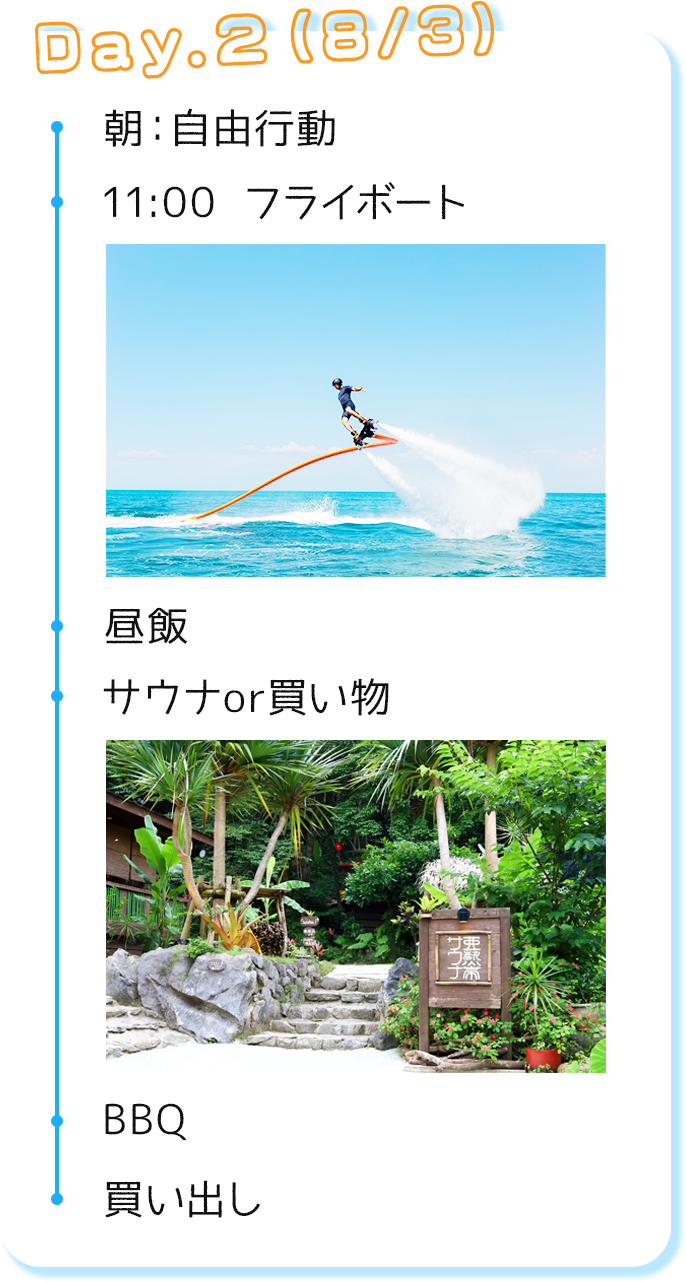
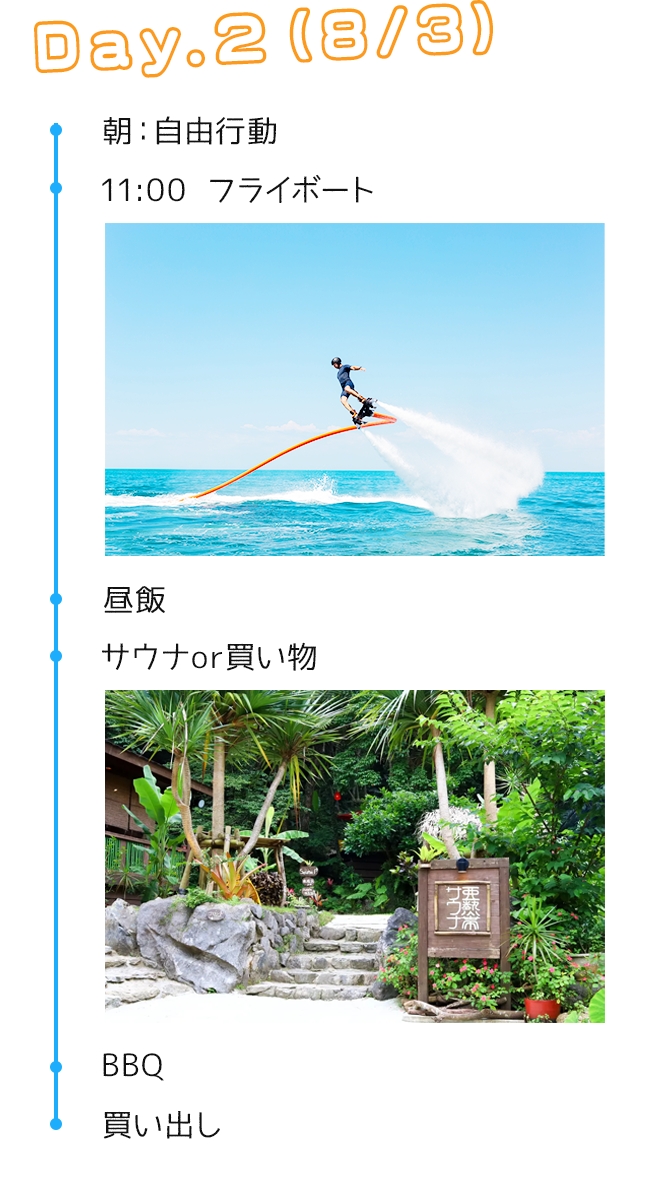
スケジュール画像変更＆fv修正

diff --git a/index.html b/index.html
@@ -67,7 +67,8 @@
         </div>  
 
         <div class="fv" id="top">
-            <div class="fv_img"><img src="./img/FV.png" alt=""></div>
+            <p class="fv_img"><img src="./img/fv-bg.png" alt=""></p>
+            <p class="fv_txt"><img src="./img/fv-txt.png" alt=""></p>
         </div>
 
         <div class="article">
@@ -146,10 +147,6 @@
                         寝室1(洋室)：ダブルベッド×3<br>
                         寝室2(和室)：ダブルベッド×2・布団×6<br>
                         寝室3(洋室)：ダブルベッド×2・ベビーベッド<br>
-                        ーーーーーーーーーーーーーーーーーーー<br>
-                        【❌含まれないもの❌】<br>
-                        必需品<br>
-                        シャンプーシャンプー<br>
                         ーーーーーーーーーーーーーーーーーーー<br>
                         <a target=”_blank” href="https://x.gd/V5GF7">https://x.gd/V5GF7</a>
                         </div>

diff --git a/css/style.scss b/css/style.scss
@@ -5,15 +5,10 @@ html {
   font-size: 16px; /* 基準サイズを16pxに設定 */
 }
 
-// // 画像スライド右ボタン非表示
-// .slick-next {
-//     display: none !important;
-// }
-
 // 背景設定
 // ---------------------------------------------
 
-body{
+body {
     background-image: url(../img/砂浜.png);
     background-repeat: repeat;
     color: #333333;
@@ -182,8 +177,27 @@ body{
             width: 100%;
         }
     }
+    &_txt {
+        position: absolute;
+        top: 45%;
+        left: 50%;
+        transform: translate(-50%, -45%);
+        width: 90%;
+        animation-name: fade-in;
+        animation-duration: 2s;
+        animation-timing-function: ease-out;
+        animation-fill-mode: forwards; 
+    }
 }
 
+@keyframes fade-in {
+  from {
+    opacity: 0;
+  }
+  to {
+    opacity: 1;
+  }
+}
 
 
 // コンテンツ
@@ -245,10 +259,6 @@ body{
 
         &_day {
             margin-bottom: 20px;
-
-            &:nth-child(4) {
-                width: 104%;
-            }
         }
     }
 }

diff --git a/css/style.css b/css/style.css
@@ -152,7 +152,26 @@ body ::-webkit-scrollbar {
 .fv_img img {
   width: 100%;
 }
+.fv_txt {
+  position: absolute;
+  top: 45%;
+  left: 50%;
+  transform: translate(-50%, -45%);
+  width: 90%;
+  animation-name: fade-in;
+  animation-duration: 2s;
+  animation-timing-function: ease-out;
+  animation-fill-mode: forwards;
+}
 
+@keyframes fade-in {
+  from {
+    opacity: 0;
+  }
+  to {
+    opacity: 1;
+  }
+}
 .article {
   max-width: 450px;
   margin: 0 auto;
@@ -208,9 +227,6 @@ body ::-webkit-scrollbar {
 }
 #sec03 .schedule_day {
   margin-bottom: 20px;
-}
-#sec03 .schedule_day:nth-child(4) {
-  width: 104%;
 }
 
 #sec05 {
